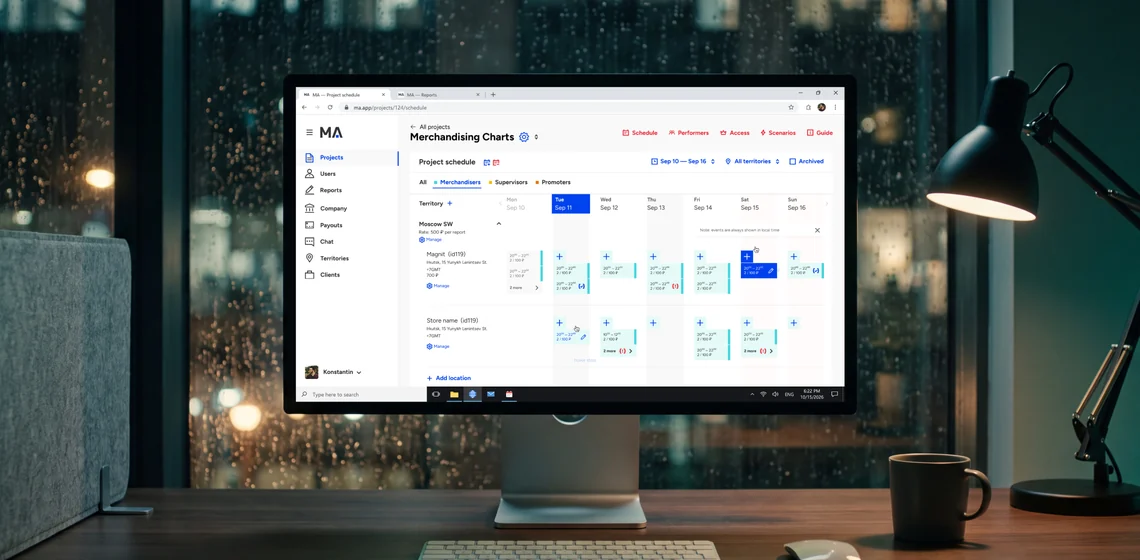
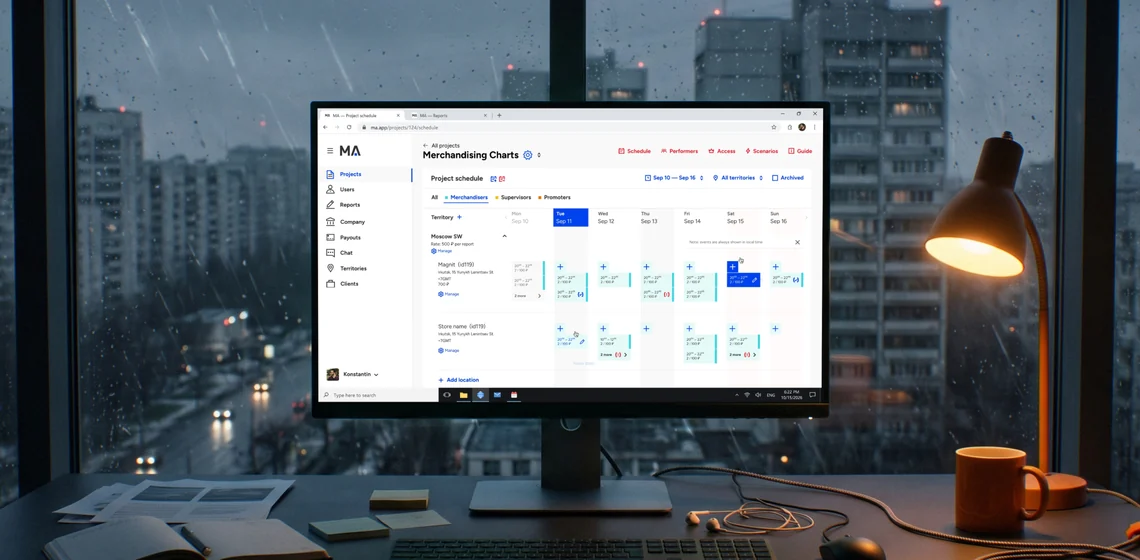
Legacy demo: frosted pill around the switch, new MA.direct AI scene
- Switch sits in a frosted pill (Figma Frame 5): 12px from the corner,
  radius/l, opacity/01% fill, background blur; the whole pill toggles
- Pill carries the fixed Olive Night mode; below 1000px of block width it
  gets a 72% Olive Night background tint so the label stays readable
- MA.direct AI scene: new image and crop from Figma

Claude-Session: https://claude.ai/code/session_01SyK1mkk32etF4Hxsy5th1o

diff --git a/ma-direct/index.html b/ma-direct/index.html
@@ -86,16 +86,18 @@
           <span class="image-loader image-loader--spinner toggle-media__frame">
             <img class="toggle-media__image toggle-media__image--on" src="../assets/img/ma-direct/legacy-ai-scene-1140.webp" srcset="../assets/img/ma-direct/legacy-ai-scene-1140.webp 1140w, ../assets/img/ma-direct/legacy-ai-scene-2280.webp 2280w"
                  sizes="(max-width: 767.98px) calc(100vw - 48px), min(1140px, calc(100vw - 280px))"
-                 width="1140" height="560" alt="Before, as an AI-generated scene: the old MA shift scheduler on a desktop monitor by a rainy window at night, with a desk lamp, a keyboard and a mug. On screen is the Merchandising Charts project schedule, a week of shifts for each store." loading="lazy" decoding="async">
+                 width="1140" height="560" alt="Before, as an AI-generated scene: the old MA shift scheduler on a desktop monitor by a rain-streaked window at dusk, with grey apartment blocks outside, an orange desk lamp and mug, papers and a notebook on the desk. On screen is the Merchandising Charts project schedule, a week of shifts for each store." loading="lazy" decoding="async">
             <img class="toggle-media__image toggle-media__image--off" src="../assets/img/ma-direct/legacy-ui-1140.webp" srcset="../assets/img/ma-direct/legacy-ui-1140.webp 1140w, ../assets/img/ma-direct/legacy-ui-1710.webp 1710w"
                  sizes="(max-width: 767.98px) calc(100vw - 48px), min(1140px, calc(100vw - 280px))"
                  width="1140" height="560" alt="Before: the old MA shift scheduler in a browser. The Merchandising Charts project schedule lists stores by territory (Moscow SW) against a week from Mon, Sep 10 to Sun, Sep 16, with small shift cards showing hours and pay, and a plus button to add a shift on each day." loading="lazy" decoding="async" aria-hidden="true">
           </span>
-          <button class="switch-and-text toggle-media__switch" type="button" role="switch" aria-checked="true" dir="rtl" data-theme="olive-night"
-                  data-goatcounter-click="ma-direct-ai-scene-toggle" data-goatcounter-title="AI scene switch — ma-direct">
-            <span class="switch" aria-hidden="true"><span class="switch__knob"></span></span>
-            <span class="body-c-regular">AI scene</span>
-          </button>
+          <div class="toggle-media__control" data-theme="olive-night">
+            <button class="switch-and-text toggle-media__switch" type="button" role="switch" aria-checked="true" dir="rtl"
+                    data-goatcounter-click="ma-direct-ai-scene-toggle" data-goatcounter-title="AI scene switch — ma-direct">
+              <span class="switch" aria-hidden="true"><span class="switch__knob"></span></span>
+              <span class="body-c-regular">AI scene</span>
+            </button>
+          </div>
         </div>
         <svg class="media__arrow" width="32" height="32" viewBox="0 0 32 32" fill="currentColor" aria-hidden="true" focusable="false"><path d="M16.0017 26.3166L24.8267 17.4916C23.9154 16.5804 22.4381 16.5804 21.5268 17.4916L17.335 21.6835L17.335 6L14.6683 6L14.6683 21.6833L10.4766 17.4916C9.56535 16.5804 8.08797 16.5804 7.17674 17.4916L16.0017 26.3166Z"/></svg>
         <a class="media__link" href="../assets/img/ma-direct/shift-planner-2160.webp">

diff --git a/raiffeisen-bank/index.html b/raiffeisen-bank/index.html
@@ -94,11 +94,13 @@
                  sizes="(max-width: 767.98px) calc(100vw - 48px), min(1140px, calc(100vw - 280px))"
                  width="1140" height="560" alt="Before: the legacy collateral system running in Internet Explorer (Runtime – CmsRzbRu). A dense “Collateral type definer” form stacks five grey dropdowns — main type, three subtypes and a business collateral code — above a small “Confirm collateral type” button." loading="lazy" decoding="async" aria-hidden="true">
           </span>
-          <button class="switch-and-text toggle-media__switch" type="button" role="switch" aria-checked="true" dir="rtl" data-theme="olive-night"
-                  data-goatcounter-click="raiffeisen-ai-scene-toggle" data-goatcounter-title="AI scene switch — raiffeisen-bank">
-            <span class="switch" aria-hidden="true"><span class="switch__knob"></span></span>
-            <span class="body-c-regular">AI scene</span>
-          </button>
+          <div class="toggle-media__control" data-theme="olive-night">
+            <button class="switch-and-text toggle-media__switch" type="button" role="switch" aria-checked="true" dir="rtl"
+                    data-goatcounter-click="raiffeisen-ai-scene-toggle" data-goatcounter-title="AI scene switch — raiffeisen-bank">
+              <span class="switch" aria-hidden="true"><span class="switch__knob"></span></span>
+              <span class="body-c-regular">AI scene</span>
+            </button>
+          </div>
         </div>
         <svg class="media__arrow" width="32" height="32" viewBox="0 0 32 32" fill="currentColor" aria-hidden="true" focusable="false"><path d="M16.0017 26.3166L24.8267 17.4916C23.9154 16.5804 22.4381 16.5804 21.5268 17.4916L17.335 21.6835L17.335 6L14.6683 6L14.6683 21.6833L10.4766 17.4916C9.56535 16.5804 8.08797 16.5804 7.17674 17.4916L16.0017 26.3166Z"/></svg>
         <a class="media__link" href="../assets/img/raiffeisen-bank/collateral-platform-2280.webp">

diff --git a/t-bank/index.html b/t-bank/index.html
@@ -92,11 +92,13 @@
                  sizes="(max-width: 767.98px) calc(100vw - 48px), min(1140px, calc(100vw - 280px))"
                  width="1140" height="560" alt="Before: the legacy Oracle Siebel verification screen in Chrome, shown with fictional test data. A company card for LLC Tolyatti Romashka Delta-M with loan details, a list of verification steps, contacts, roles and company activities, and a panel of customer chat dialogs on the right." loading="lazy" decoding="async" aria-hidden="true">
           </span>
-          <button class="switch-and-text toggle-media__switch" type="button" role="switch" aria-checked="true" dir="rtl" data-theme="olive-night"
-                  data-goatcounter-click="t-bank-ai-scene-toggle" data-goatcounter-title="AI scene switch — t-bank">
-            <span class="switch" aria-hidden="true"><span class="switch__knob"></span></span>
-            <span class="body-c-regular">AI scene</span>
-          </button>
+          <div class="toggle-media__control" data-theme="olive-night">
+            <button class="switch-and-text toggle-media__switch" type="button" role="switch" aria-checked="true" dir="rtl"
+                    data-goatcounter-click="t-bank-ai-scene-toggle" data-goatcounter-title="AI scene switch — t-bank">
+              <span class="switch" aria-hidden="true"><span class="switch__knob"></span></span>
+              <span class="body-c-regular">AI scene</span>
+            </button>
+          </div>
         </div>
         <svg class="media__arrow" width="32" height="32" viewBox="0 0 32 32" fill="currentColor" aria-hidden="true" focusable="false"><path d="M16.0017 26.3166L24.8267 17.4916C23.9154 16.5804 22.4381 16.5804 21.5268 17.4916L17.335 21.6835L17.335 6L14.6683 6L14.6683 21.6833L10.4766 17.4916C9.56535 16.5804 8.08797 16.5804 7.17674 17.4916L16.0017 26.3166Z"/></svg>
         <a class="media__link" href="../assets/img/t-bank/verification-home-2280.webp">

diff --git a/assets/css/site.css b/assets/css/site.css
@@ -490,6 +490,7 @@ a {
 .toggle-media {
   position: relative;
   width: 100%;
+  container-type: inline-size;
 }
 
 /* Figma: radius/m with clip content on every legasy-demo variant */
@@ -514,19 +515,33 @@ a {
   opacity: 0;
 }
 
-/* Figma: switch-and-text, absolute, 12px from the right and bottom edges */
-.toggle-media__switch {
+/* Figma: Frame 5 — a frosted pill 12px from the right and bottom edges,
+   radius/l, opacity/01% fill and a background blur (Figma 150 = CSS 75px).
+   The pill and switch keep a fixed Olive Night mode (data-theme on the pill);
+   the whole pill is the button, so it is also a comfortable touch target. */
+.toggle-media__control {
   position: absolute;
   right: var(--space-12);
   bottom: var(--space-12);
   z-index: 1;
+  border-radius: var(--radius-l);
+  background-color: var(--opacity-01);
+  -webkit-backdrop-filter: blur(75px);
+  backdrop-filter: blur(75px);
 }
 
-/* A larger touch target than the 20px-tall control, without changing layout */
-.toggle-media__switch::before {
-  content: "";
-  position: absolute;
-  inset: -12px;
+.toggle-media__control .toggle-media__switch {
+  padding: var(--space-12) var(--space-16);
+  border-radius: inherit;
+}
+
+/* Figma only has the 1140px layout. When the block shrinks, the pill keeps
+   its size and starts to cover light parts of the picture, so it gets a
+   dark tint (Olive Night background, 72%) to keep the label readable. */
+@container (max-width: 999.98px) {
+  .toggle-media__control {
+    background-color: color-mix(in srgb, var(--uncolorful-grey-background) 72%, transparent);
+  }
 }
 
 /* icons/arrow-down, 32px, accent-1 */

diff --git a/README.md b/README.md
@@ -108,7 +108,7 @@ A **toggle-media** block puts two images in one 1140×560 slot with a switch in 
 Figma `raif-legasy-demo` component. `data-active="true"` shows the `--on` image. site.js swaps them,
 keeps screen readers on the visible one, and GoatCounter counts the clicks. MA.direct, Raiffeisen Bank and T-bank use it.
 Arrows between images in these Legacy vs Current blocks are 16px away (`media media--gap-16`), as in Figma.
-The switch there carries `data-theme="olive-night"`, the same fixed colour mode it has in Figma.
+The switch sits in a frosted pill (`toggle-media__control`) that carries `data-theme="olive-night"`, the same fixed colour mode it has in Figma; on smaller blocks the pill gets a dark tint so the label stays readable.
 
 ## Day & night
 
